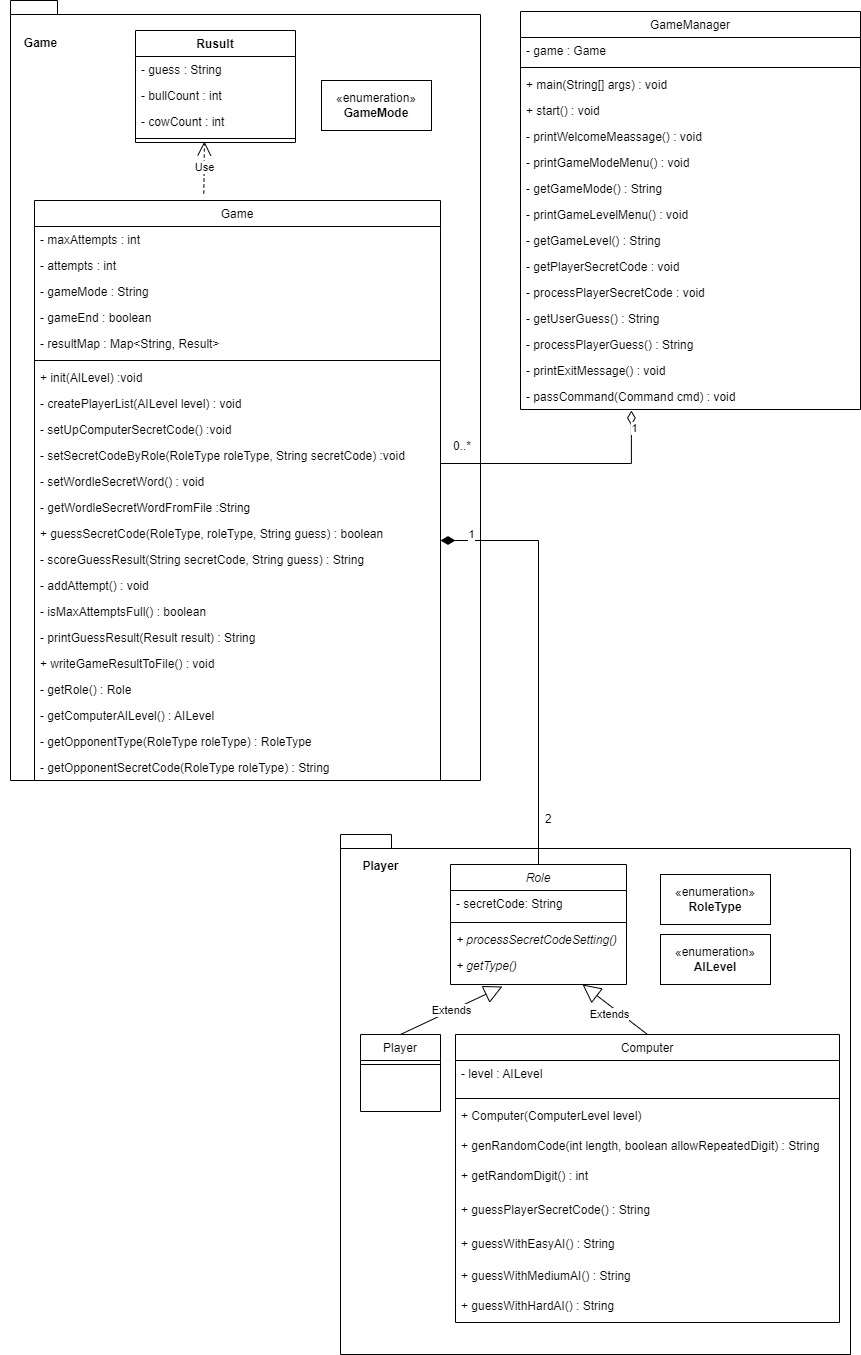
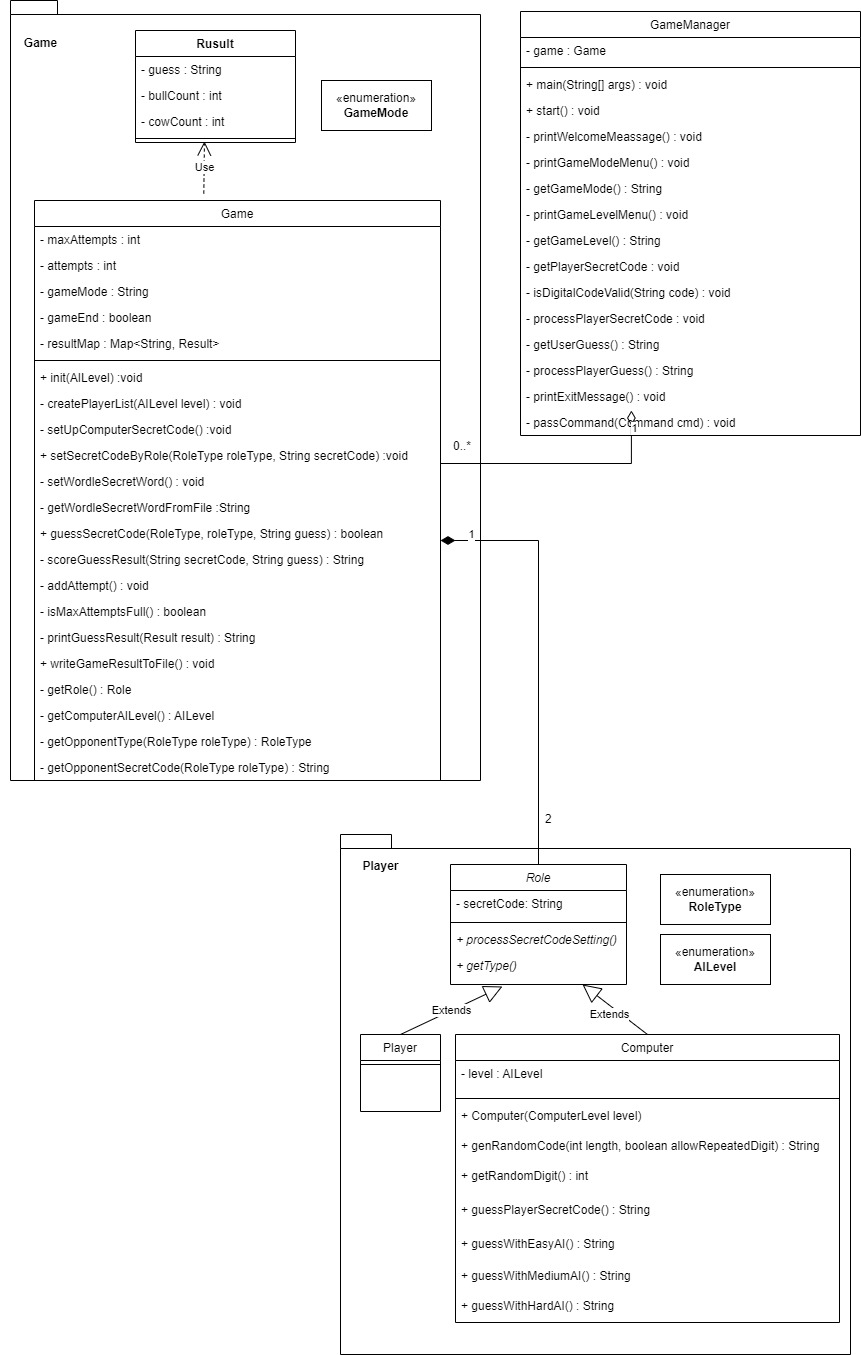
new class diagram Task two : get player secret code

Changed region(s): [[0.6039, 0.217, 0.8455, 0.341], [0.0604, 0.31, 0.4832, 0.341], [0.9965, 0.279, 1.0, 0.341]]

diff --git a/src/GameManager.java b/src/GameManager.java
@@ -155,18 +155,33 @@ public class GameManager {
      * set up player Secret code if needed
      */
     private void setPlayerSecretCode() {
-        if (game.getGameMode().equals(GameMode.BULLSANDCOWS) && !game.getComputerAILevel().equals(AILevel.BEGINNER)) {
-            getPlayerSecretCode();
-        }
+        if((game.getGameMode().equals(GameMode.BULLSANDCOWS) && game.getComputerAILevel().equals(AILevel.BEGINNER)) ||
+                game.getGameMode().equals(GameMode.WORDLE))
+            return ;
+        String code = getPlayerSecretCode();
+        game.setSecretCodeByRole(RoleType.PLAYER, code);
+        System.out.println(">>>>>");
     }
 
     /**
      * prompt player to enter secret code
-     *
+     * Bulls and Cows : EasyAI, MediumAI and HARDAI need player to enter their secret code
+     * Otherwise, computer will generate random code at the beginning of the game
      * @return secretCode from player
      */
     private String getPlayerSecretCode() {
-        return null;
+        String code = null;
+        boolean isCodeValid = false;
+        while (!isCodeValid) {
+            System.out.println("Please Enter your secret code:");
+            code = Keyboard.readInput();
+            if (isDigitalCodeValid(code)) {
+                isCodeValid = true;
+            } else {
+                System.out.println("Your secret code is invalid! Please enter a number of non-repetitive 4 digits from 0-9!");
+            }
+        }
+        return code;
     }
 
     /**
@@ -190,13 +205,23 @@ public class GameManager {
         while (!isInputValid) {
             System.out.println("Enter your guess:");
             input = Keyboard.readInput();
-            if (input.matches("^(?:([0-9])(?!.*\\1)){4}")) {
+            if (isDigitalCodeValid(input)) {
                 isInputValid = true;
             } else {
                 System.out.println("Your guess is invalid! Please enter a number of non-repetitive 4 digits from 0-9!");
             }
         }
         return input;
+    }
+
+    /**
+     * check if format of the code is valid
+     *
+     * @param code non-repetitive 4-digits code from 0 to 9
+     * @return is code valid
+     */
+    private boolean isDigitalCodeValid(String code){
+        return code.matches("^(?:([0-9])(?!.*\\1)){4}");
     }
 
     /**

diff --git a/src/industry/assignment02/game/Game.java b/src/industry/assignment02/game/Game.java
@@ -111,7 +111,7 @@ public class Game {
      * @param roleType   player role type
      * @param secretCode if needed
      */
-    private void setSecretCodeByRole(RoleType roleType, String secretCode) {
+    public void setSecretCodeByRole(RoleType roleType, String secretCode) {
         for (int i = 0; i < playerList.size(); i++) {
             if (playerList.get(i) != null && roleType.equals(playerList.get(i).getType())) {
                 playerList.get(i).processSecretCodeSetting(secretCode);
